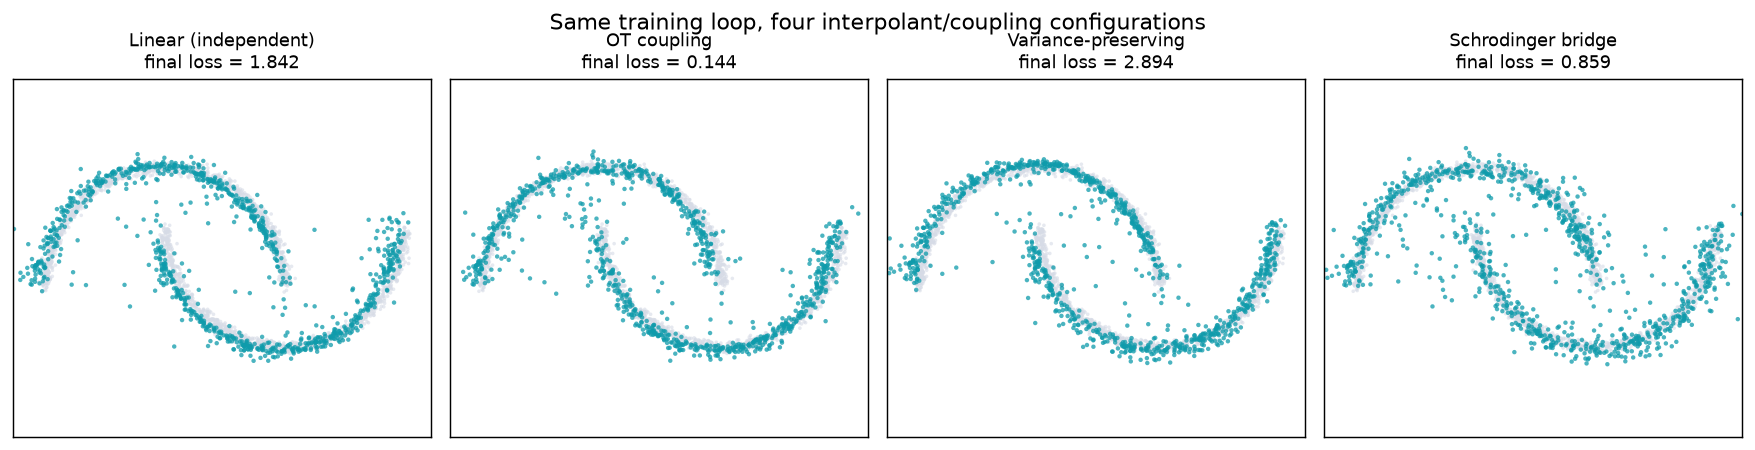
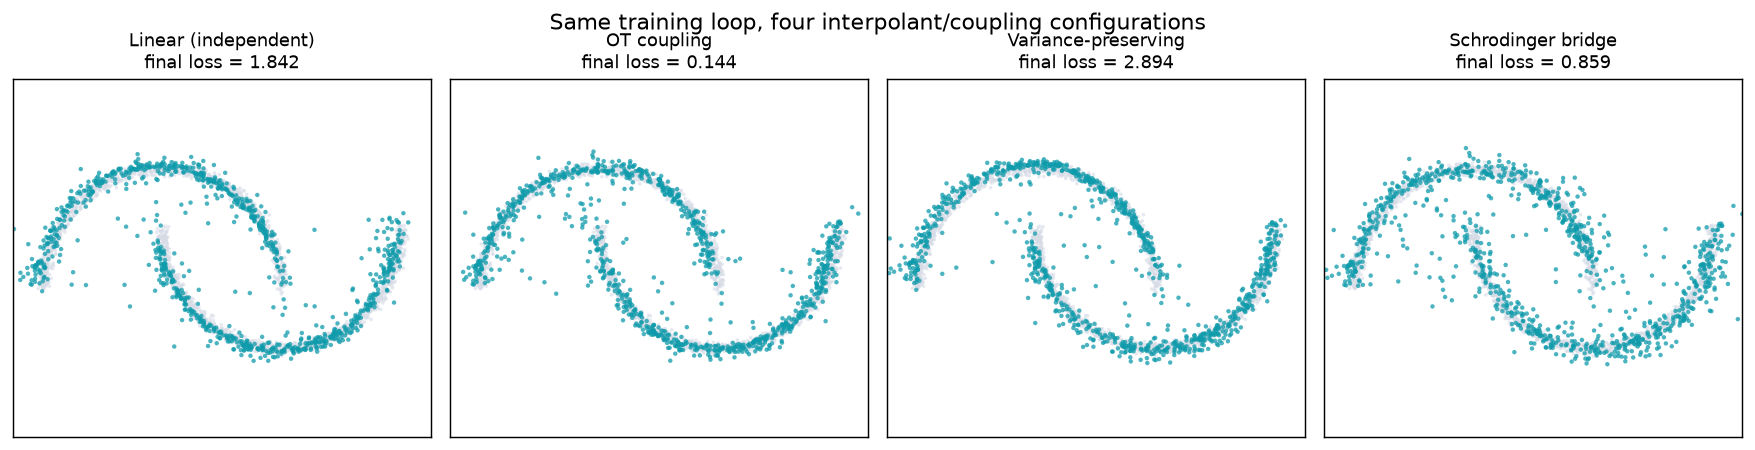
Add animated side-by-side GIF for algorithm comparison
Extended 06-algorithm-comparison with comparison.gif: all four
sampler configurations (linear independent, OT coupling,
variance-preserving, Schrodinger bridge) animated side by side from
the same noise batch, so differences are visible at a glance. Wired
the new GIF plus the existing Schrodinger-bridge sb_flow.gif into
README.md's Comparing the paths section and docs/examples.md.

Changed region(s): [[0.6154, 0.7156, 0.6462, 0.7467], [0.5846, 0.3733, 0.6154, 0.4044]]

diff --git a/examples/90-showcase/06-algorithm-comparison/main.py b/examples/90-showcase/06-algorithm-comparison/main.py
@@ -20,7 +20,8 @@ Run::
 
     python examples/90-showcase/06-algorithm-comparison/main.py
 
-Outputs are written to ``outputs/algorithm_comparison/``.
+Outputs are written to ``outputs/algorithm_comparison/``, including an
+animated ``comparison.gif`` showing all four samplers running side by side.
 """
 
 from __future__ import annotations
@@ -38,6 +39,8 @@ except ImportError as exc:  # pragma: no cover - install hint only
         "This example needs matplotlib. Install it with:\n"
         "    pip install matplotlib"
     ) from exc
+
+from matplotlib import animation
 
 from deltaflow.core.base import BaseVelocityField
 from deltaflow.interpolants import (
@@ -201,6 +204,50 @@ def main() -> None:
     fig.savefig(traj_comparison_path, bbox_inches="tight")
     plt.close(fig)
     print(f"[demo] wrote {traj_comparison_path}")
+
+    # ---- Animated comparison: sampling side by side ------------------------
+    anim_path = _write_comparison_animation(results, target, out_dir / "comparison.gif")
+    if anim_path is not None:
+        print(f"[demo] wrote {anim_path}")
+
+
+def _write_comparison_animation(results, target, out_path, fps: int = 20):
+    """Animate every algorithm's sampling process side by side, so the noise
+    -> two-moons transport can be compared frame by frame."""
+    target_np = target.cpu().numpy()
+    names = list(results.keys())
+    n_frames = next(iter(results.values()))[0].shape[0]
+
+    fig, axes = plt.subplots(1, len(names), figsize=(3.0 * len(names), 3.2), dpi=80)
+    scats = []
+    for ax, name in zip(axes, names):
+        ax.scatter(target_np[:, 0], target_np[:, 1], s=4, c=C_TARGET, alpha=0.6, edgecolors="none")
+        scat = ax.scatter([], [], s=6, c=C_PARTICLE, alpha=0.8, edgecolors="none")
+        scats.append(scat)
+        ax.set_xlim(_XLIM); ax.set_ylim(_YLIM)
+        ax.set_aspect("equal")
+        ax.set_title(name, fontsize=10)
+        ax.set_xticks([]); ax.set_yticks([])
+    suptitle = fig.suptitle("", fontsize=12)
+    fig.tight_layout()
+
+    def update(frame_idx: int):
+        t_val = frame_idx / (n_frames - 1)
+        for scat, name in zip(scats, names):
+            traj = results[name][0]
+            scat.set_offsets(traj[frame_idx].cpu().numpy())
+        suptitle.set_text(f"Sampling under each configuration  |  t = {t_val:.2f}")
+        return (*scats, suptitle)
+
+    anim = animation.FuncAnimation(fig, update, frames=n_frames, interval=1000 // fps, blit=False)
+    try:
+        anim.save(out_path, writer=animation.PillowWriter(fps=fps))
+    except Exception as exc:
+        plt.close(fig)
+        print(f"[demo] skipping animation ({exc}); install pillow to enable it")
+        return None
+    plt.close(fig)
+    return out_path
 
 
 if __name__ == "__main__":

diff --git a/README.md b/README.md
@@ -175,6 +175,8 @@ loss_fn = ConditionalFlowMatchingLoss(
 loss = loss_fn(model, x1)
 ```
 
+![Animated Schrödinger-bridge sampling](https://raw.githubusercontent.com/phrugsa-limbunlom/deltaflow/main/docs/assets/schrodinger-bridge/sb_flow.gif)
+
 ### Comparing the paths
 
 Every algorithm above is the *same* training loop; only the `interpolant=` (and optionally `coupling=`) argument to `ConditionalFlowMatchingLoss` changes. Training an identical MLP on a two-moons target with each configuration for the same number of steps makes the differences concrete:
@@ -185,6 +187,10 @@ Every algorithm above is the *same* training loop; only the `interpolant=` (and 
 | OT coupling | `LinearInterpolant()` | `OTCoupling()` |
 | Variance-preserving | `VariancePreservingInterpolant()` | *(none)* |
 | Schrödinger bridge | `SchrodingerBridgeInterpolant(sigma=0.5)` | `OTCoupling()` |
+
+**Side by side, animated.** All four samplers integrated from the *same* noise batch, at the *same* number of steps, so the only difference on screen is the training configuration:
+
+![Animated comparison of all four configurations sampling](https://raw.githubusercontent.com/phrugsa-limbunlom/deltaflow/main/docs/assets/algorithm-comparison/comparison.gif)
 
 ![Final samples under each configuration](https://raw.githubusercontent.com/phrugsa-limbunlom/deltaflow/main/docs/assets/algorithm-comparison/comparison.png)
 

diff --git a/docs/examples.md b/docs/examples.md
@@ -338,6 +338,12 @@ and `SchrodingerBridgeInterpolant` with `OTCoupling`.
 training loop; this demo makes the practical differences between
 configurations visible side by side, on identical data and compute budget.
 
+**Animated sampling, side by side.** All four samplers integrate the same
+noise batch over the same number of steps, so the only variable on screen is
+the training configuration.
+
+![Animated comparison of all four configurations sampling](assets/algorithm-comparison/comparison.gif)
+
 ![Final samples under each configuration](assets/algorithm-comparison/comparison.png)
 
 ![Sampled trajectories under each configuration](assets/algorithm-comparison/trajectories_comparison.png)

diff --git a/CHANGELOG.md b/CHANGELOG.md
@@ -19,8 +19,9 @@ The format follows [Keep a Changelog](https://keepachangelog.com/en/1.1.0/).
 - Showcase example `06-algorithm-comparison`: trains the same model on the
   same target under all four interpolant/coupling configurations (linear
   independent, OT coupling, variance-preserving, Schrödinger bridge) and
-  compares final samples and sampled trajectories side by side. A README
-  section ("Comparing the paths") links these figures.
+  compares final samples, sampled trajectories, and an animated side-by-side
+  sampling GIF. A README section ("Comparing the paths") links these
+  figures, alongside the Schrödinger-bridge sampling animation.
 
 ## [0.2.1]
 
